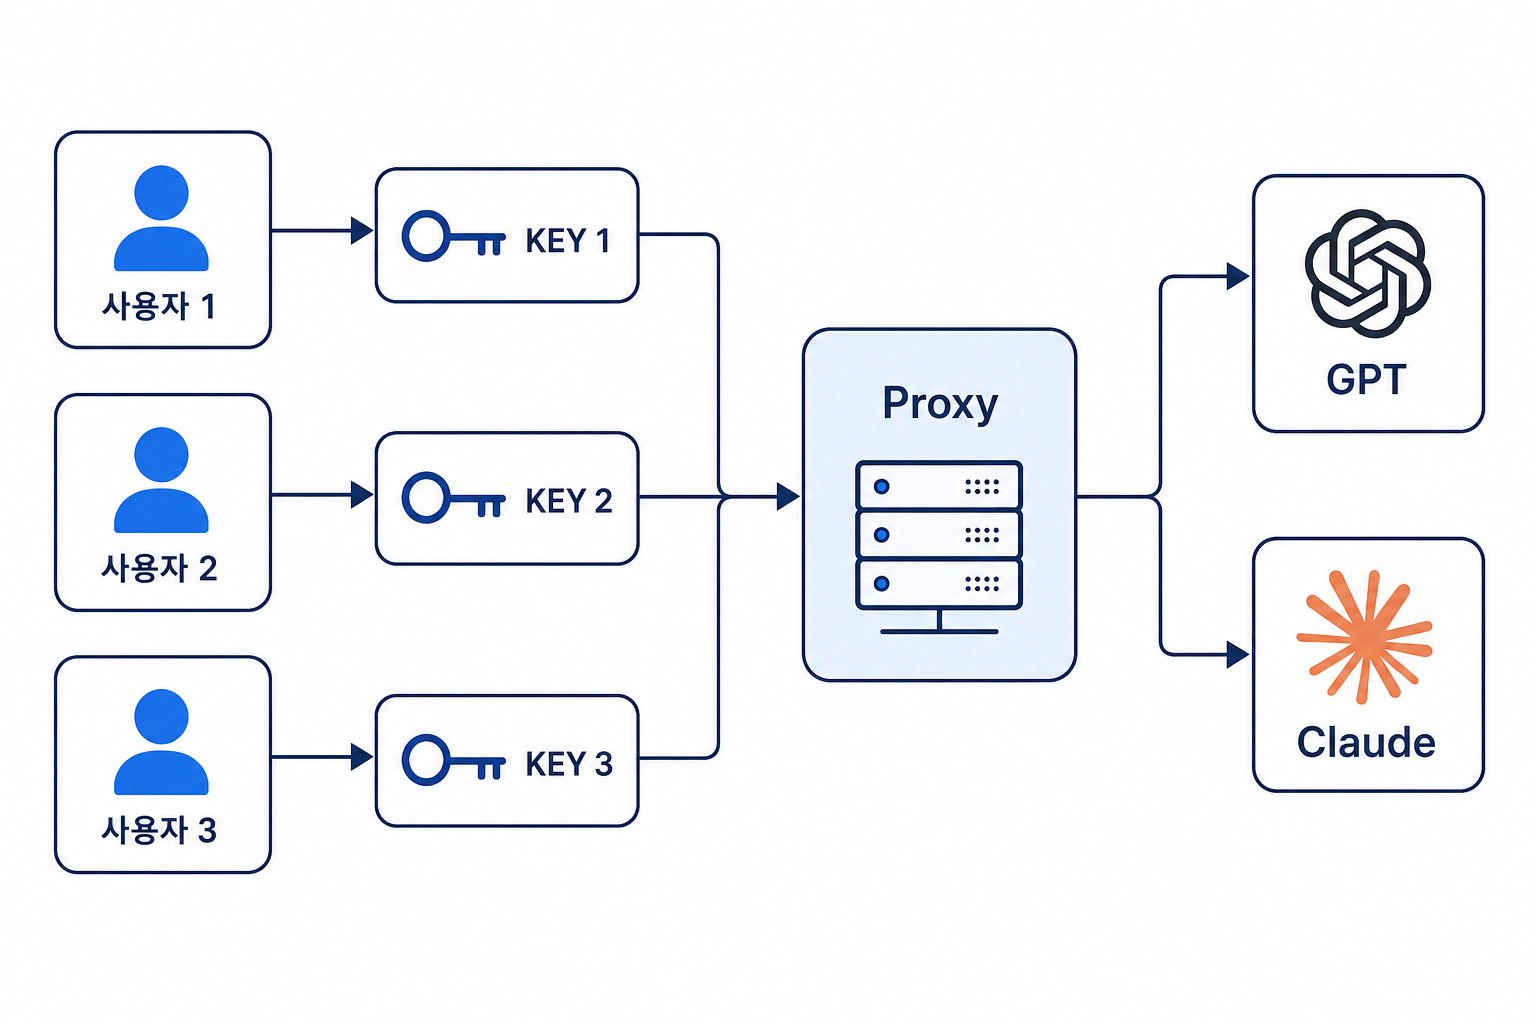
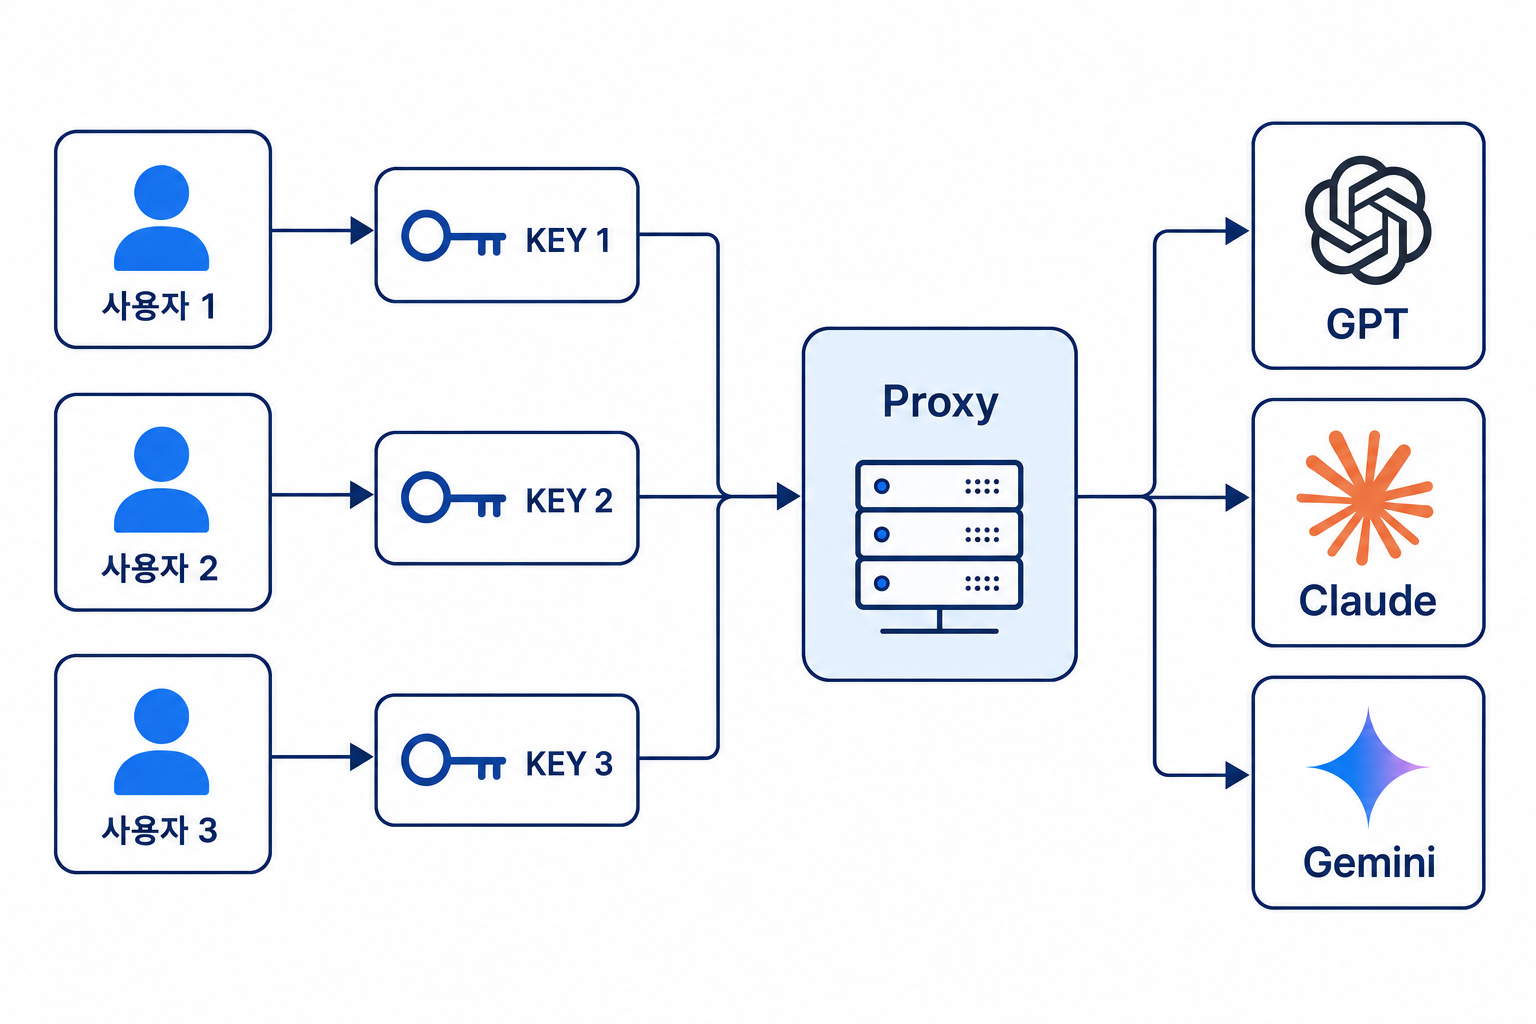
Proxy 문서에 Google Gemini 사용법과 Gemini가 들어간 개요 도식을 싣는다

diff --git a/proxy.html b/proxy.html
@@ -20,6 +20,7 @@
 <ul class="lead-list">
 <li>Anthropic Python SDK로 Claude 계열 모델을 호출할 수 있습니다.</li>
 <li>OpenAI Python SDK로 GPT 계열 모델을 호출할 수 있습니다.</li>
+<li>Google GenAI Python SDK로 Gemini 계열 모델을 호출할 수 있습니다.</li>
 <li>기존 코드에서 <code>base_url</code>과 <code>api_key</code>만 바꾸어 연결합니다.</li>
 </ul>
 
@@ -27,9 +28,9 @@
 
 <section id="overview">
 <figure class="shots single">
-<img src="assets/proxy-overview.png" alt="여러 사용자가 각자의 API Key로 Proxy에 요청하고 Proxy가 GPT 또는 Claude에 연결하는 구조">
+<img src="assets/proxy-overview.png?v=20261014-1" alt="여러 사용자가 각자의 API Key로 Proxy에 요청하고 Proxy가 GPT, Claude 또는 Gemini에 연결하는 구조">
 </figure>
-<p>강남대성수능연구소에서 사용되는 업무용 AI 프로그램은 별도의 OpenAI/Anthropic API Key가 없이도, Proxy API를 통해 LLM을 호출할 수 있습니다.</p>
+<p>강남대성수능연구소에서 사용되는 업무용 AI 프로그램은 별도의 OpenAI/Anthropic/Google API Key가 없이도, Proxy API를 통해 LLM을 호출할 수 있습니다.</p>
 </section>
 
 <h2 class="part">사용 한도</h2>
@@ -104,6 +105,40 @@ message: Message = client.messages.create(
 
 print(next(block.text for block in message.content if block.type == "text"))</code></pre>
 <p>구체적인 API 사용법은 <a href="https://platform.claude.com/docs/en/api/messages" target="_blank" rel="noopener">공식 홈페이지</a>를 참고하세요.</p>
+</section>
+
+<section id="gemini">
+<h3>Google Gemini</h3>
+<h4>1. 설치</h4>
+<pre><code class="language-bash">pip install google-genai</code></pre>
+<h4>2. Client 설정</h4>
+<pre><code class="language-text">https://kdsnr-ai-main-223982025046.asia-northeast3.run.app/proxy</code></pre>
+<p>위의 주소를 <code>http_options</code>의 <code>base_url</code>에, <a class="nav-badge" href="https://kdsnr-ai-dashboard.vercel.app" target="_blank" rel="noopener">Dashboard</a>에서 발급한 API Key는 <code>api_key</code>에 입력합니다. <code>api_version</code>은 <code>v1beta</code>로 둡니다.</p>
+<pre><code class="language-python">import os
+
+from google import genai
+from google.genai import types
+
+client = genai.Client(
+    api_key=os.environ["KDSNR_API_KEY"],
+    http_options=types.HttpOptions(
+        base_url="https://kdsnr-ai-main-223982025046.asia-northeast3.run.app/proxy",
+        api_version="v1beta",
+    ),
+)
+
+response: types.GenerateContentResponse = client.models.generate_content(
+    model="gemini-4-argon",
+    contents="안녕하세요",
+    config=types.GenerateContentConfig(
+        thinking_config=types.ThinkingConfig(
+            thinking_level="medium",
+        ),
+    ),
+)
+
+print(response.text)</code></pre>
+<p>구체적인 API 사용법은 <a href="https://ai.google.dev/gemini-api/docs" target="_blank" rel="noopener">공식 홈페이지</a>를 참고하세요.</p>
 </section>
 
 </main>

diff --git a/update.html b/update.html
@@ -26,6 +26,36 @@
 </ul>
 </div>
 
+<h2 class="part" id="v20261014">2026.10.14</h2>
+<section>
+<table class="update">
+<colgroup>
+<col class="w-svc"><col class="w-kind"><col><col class="w-api"><col class="w-api">
+</colgroup>
+<thead>
+<tr>
+<th rowspan="2">서비스</th>
+<th rowspan="2">유형</th>
+<th rowspan="2">내용</th>
+<th colspan="2" class="c">수동 업데이트 필요</th>
+</tr>
+<tr>
+<th class="c sub">API</th>
+<th class="c sub">MCP</th>
+</tr>
+</thead>
+<tbody>
+<tr>
+<td>Proxy</td>
+<td class="new">신규 기능</td>
+<td><ul><li>Google Gemini 계열 모델(<code>gemini-4-argon</code>)을 호출할 수 있습니다. Google GenAI Python SDK의 <code>base_url</code>을 Proxy 주소로 바꾸어 연결합니다.</li></ul></td>
+<td class="c">불필요</td>
+<td class="c">불필요</td>
+</tr>
+</tbody>
+</table>
+</section>
+
 <h2 class="part" id="v20261013">2026.10.13</h2>
 <section>
 <table class="update">

diff --git a/assets/nav.js b/assets/nav.js
@@ -62,6 +62,7 @@
       { href: X + 'api-usage', label: 'API 사용법' },
       { href: X + 'gpt', label: 'OpenAI GPT', sub: true },
       { href: X + 'claude', label: 'Anthropic Claude', sub: true },
+      { href: X + 'gemini', label: 'Google Gemini', sub: true },
     ]) +
     '</div>' +
     '<div class="nav-head">MCP</div>' +
